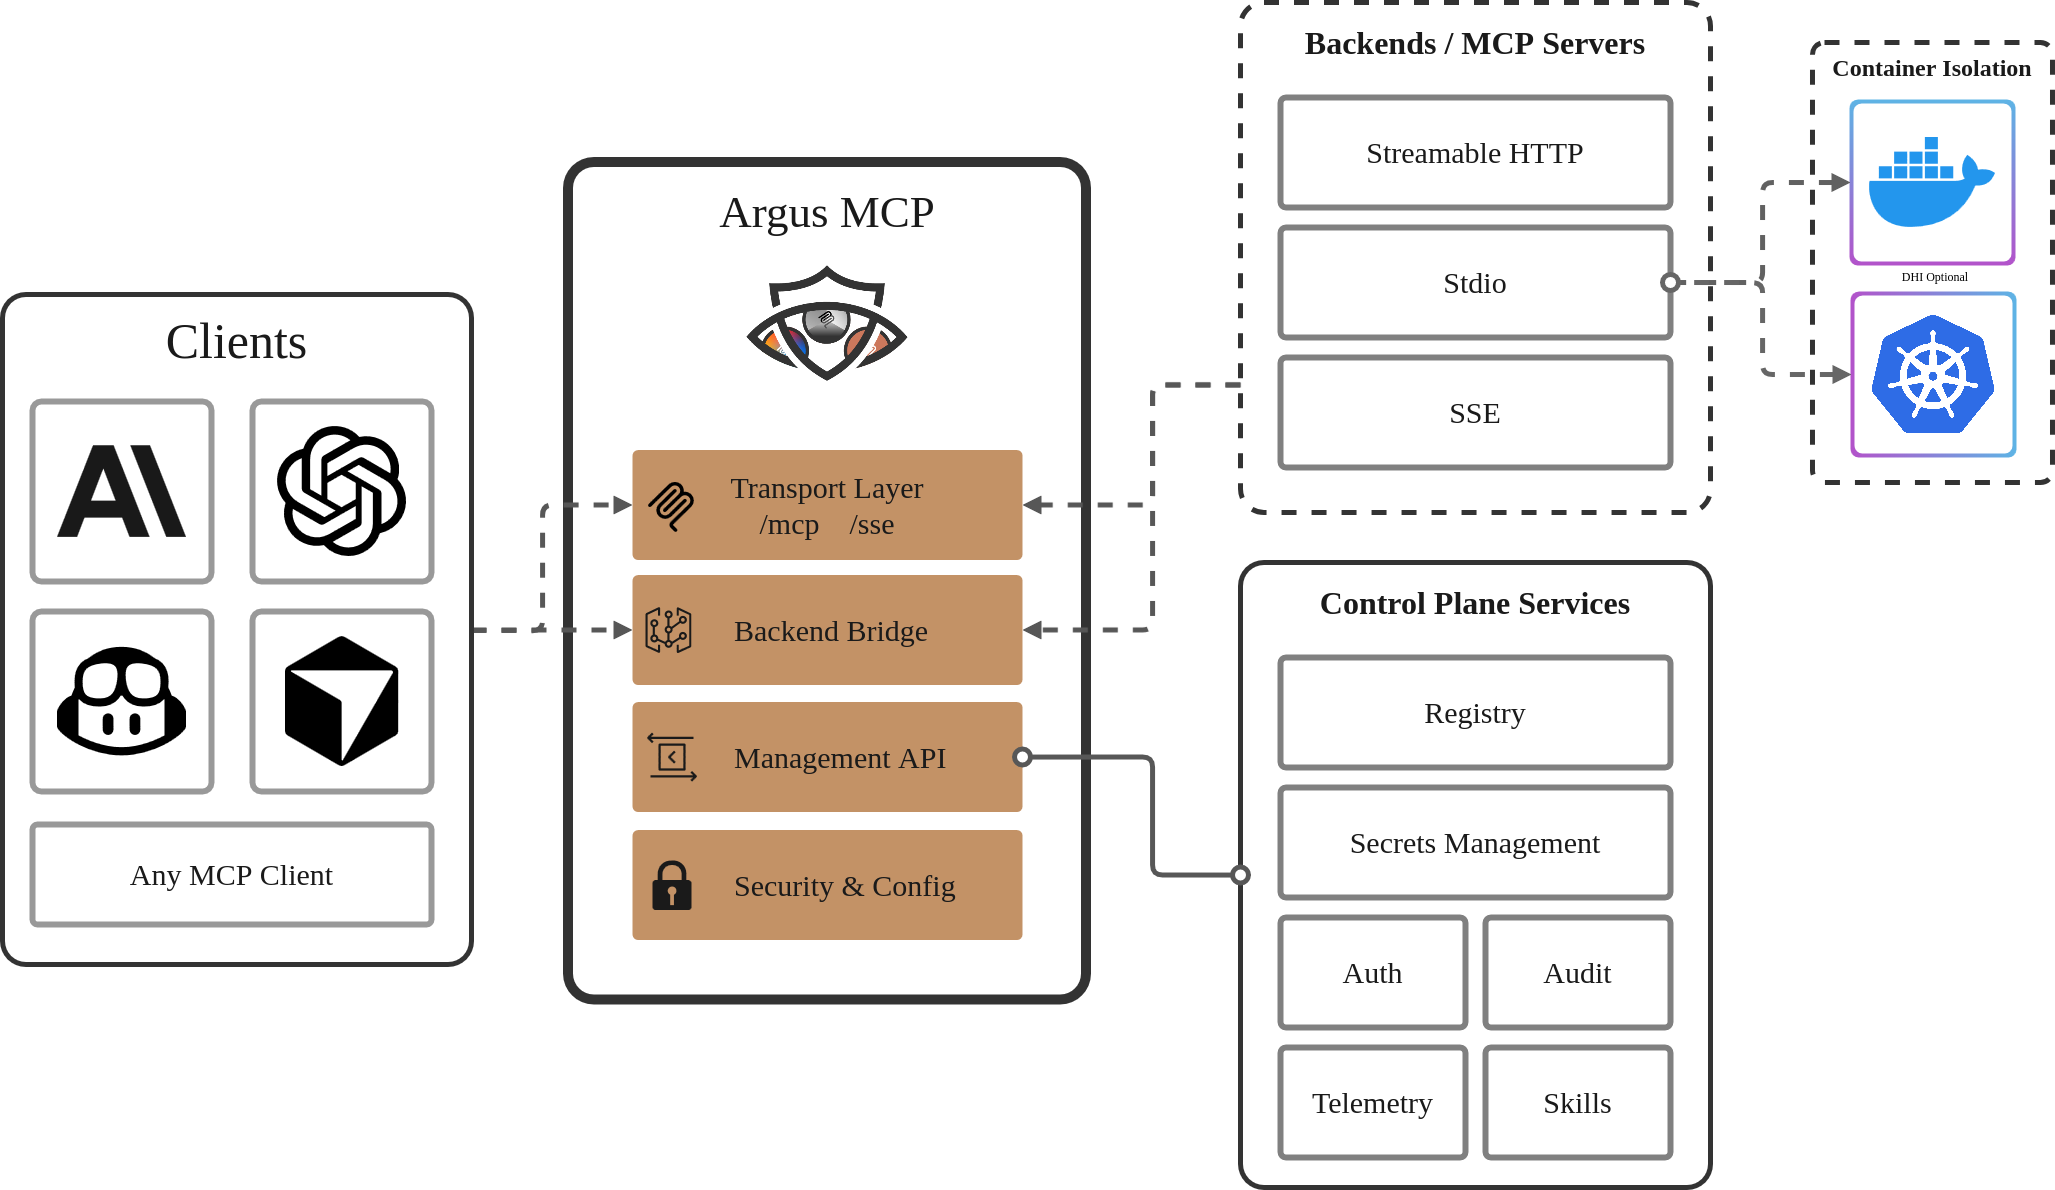
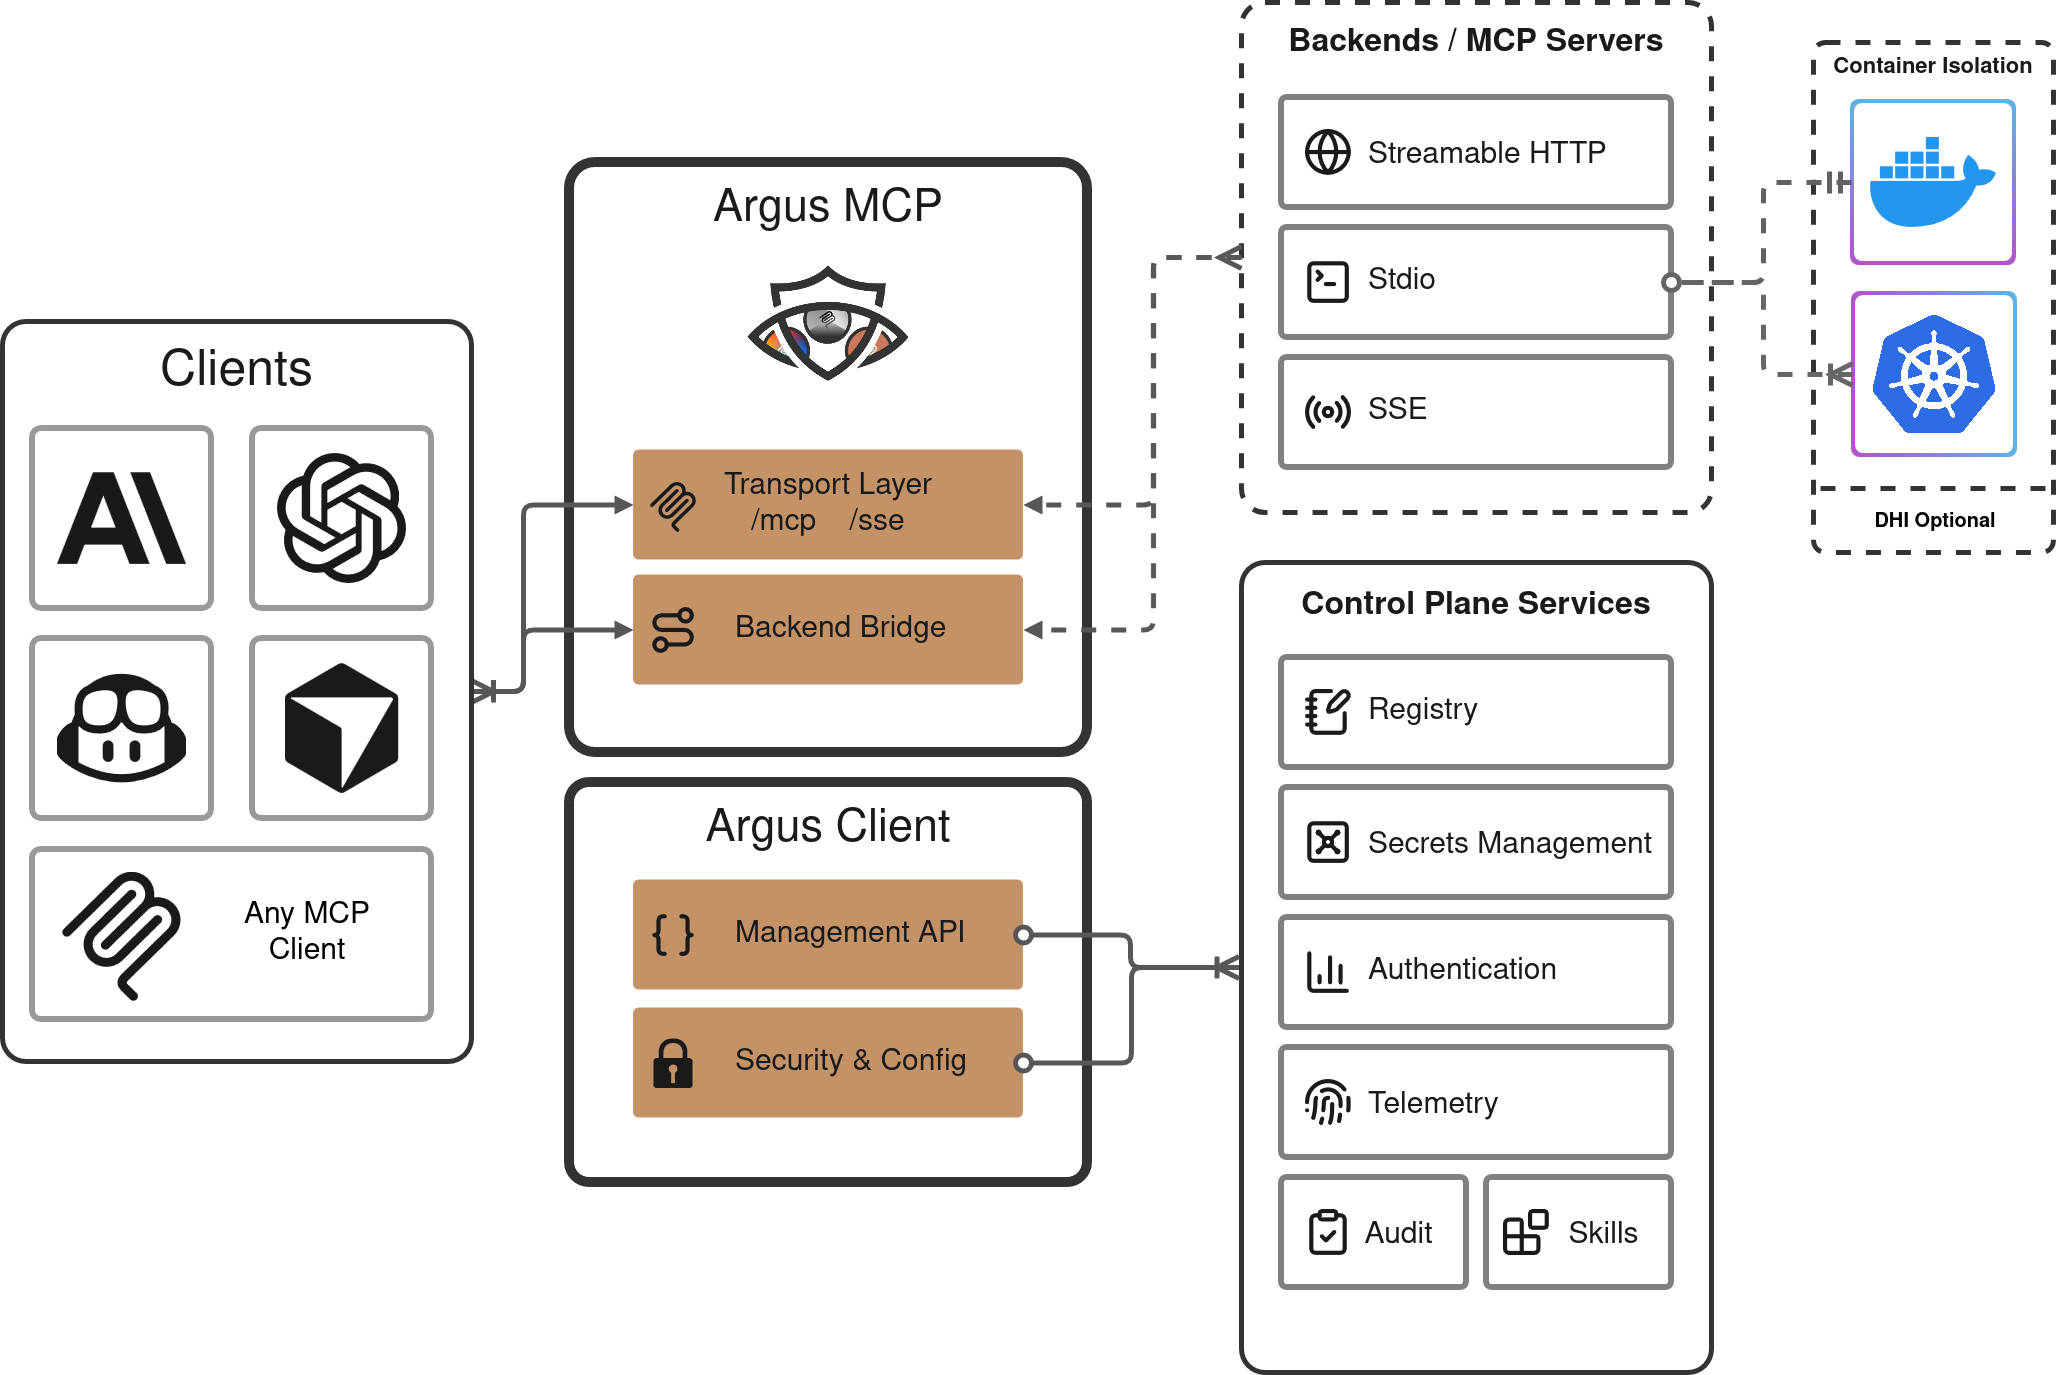
chore: update Rust Cargo.lock files, docs, images, and uv.lock
- Update Cargo.lock for 5 Rust extension crates (audit, token_cache, circuit_breaker, hash, builtins_rust)
- Add Cargo.lock for new ffi_guard_rs crate
- Update README heading ('Why use Argus MCP?')
- Update architecture diagram and why-image
- Document container block syntax and volume path restrictions in configuration.md
- Add per-backend container override and volume security to deployment-hardening.md
- Update uv.lock with latest Python dependency pins

Changed region(s): [[0.0, 0.0, 1.0, 1.0], [0.5606, 0.3109, 0.5917, 0.342]]

diff --git a/docs/configuration.md b/docs/configuration.md
@@ -173,7 +173,7 @@ subprocess (with a log warning).
 
 #### Per-Backend Container Options
 
-Individual backends can customize their container:
+Individual backends can customise their container using the `container:` block:
 
 ```yaml
 backends:
@@ -181,11 +181,31 @@ backends:
     type: stdio
     command: npx
     args: ["-y", "my-mcp-server"]
-    container_isolation: true          # default: inherits global flag
+    container:
+      enabled: true          # set false to disable isolation for this backend
+      network: none          # none | host | bridge (default: none)
+      memory: 512m           # memory limit (default: 512m)
+      cpus: "1"              # CPU quota (default: 1)
+      volumes:               # host:container[:options] mounts
+        - "/tmp/data:/data:ro"
+      user: "65532"          # UID inside container (default: 65532 / nonroot)
     builder_image: "node:22-alpine"    # override base image
     system_deps: ["curl", "jq"]        # additional OS packages
     additional_packages: []            # extra language-level packages
 ```
+
+> **Volume path restriction:** For security, volume host paths must start with
+> one of the prefixes listed in `ARGUS_VOLUME_ALLOWED_PREFIXES` (default:
+> `/tmp:/data:/workspace`). Paths outside these prefixes are rejected at config
+> load time.  To mount a path outside the defaults (e.g. a local repo under
+> `/home`), either extend the allowed list:
+>
+> ```bash
+> ARGUS_VOLUME_ALLOWED_PREFIXES=/tmp:/data:/workspace:/home argus-mcp server
+> ```
+>
+> or set `container.enabled: false` for that backend to skip container isolation
+> entirely.
 
 #### Disabling Container Isolation
 
@@ -207,7 +227,8 @@ Or per-backend:
 ```yaml
 backends:
   my-backend:
-    container_isolation: false
+    container:
+      enabled: false
 ```
 
 #### Pre-Building Images

diff --git a/docs/security/deployment-hardening.md b/docs/security/deployment-hardening.md
@@ -218,6 +218,30 @@ feature_flags:
   build_on_startup: true      # Pre-build images at startup (default: on)
 ```
 
+Per-backend override using the `container:` block:
+
+```yaml
+backends:
+  my-backend:
+    container:
+      enabled: false   # disable isolation for this backend only
+      network: none    # none | host | bridge
+      memory: 512m
+      cpus: "1"
+      volumes:
+        - "/tmp/data:/data:ro"   # host path must be within ARGUS_VOLUME_ALLOWED_PREFIXES
+```
+
+> **Volume security:** Host paths in `container.volumes` must start with a
+> prefix listed in `ARGUS_VOLUME_ALLOWED_PREFIXES` (default:
+> `/tmp:/data:/workspace`). Config load fails if a volume violates this
+> constraint.  Extend the allowed list via environment variable when mounting
+> paths outside the defaults:
+>
+> ```bash
+> ARGUS_VOLUME_ALLOWED_PREFIXES=/tmp:/data:/workspace:/mnt/data argus-mcp server
+> ```
+
 ---
 
 ## 5. Deployment Validation Checklist

diff --git a/README.md b/README.md
@@ -28,7 +28,7 @@ Argus MCP is a central gateway and management platform for the [Model Context Pr
 <tr>
 <td width="50%">
 
-## What can Argus MCP offer?
+## Why use Argus MCP?
 
 - **One endpoint, many backends:** MCP clients connect to one Argus address - Argus aggregates tools, resources, and prompts from all your backend servers.
 - **Stdio isolation:** Run stdio MCP servers in isolated Docker containers, or deploy them on Kubernetes.
